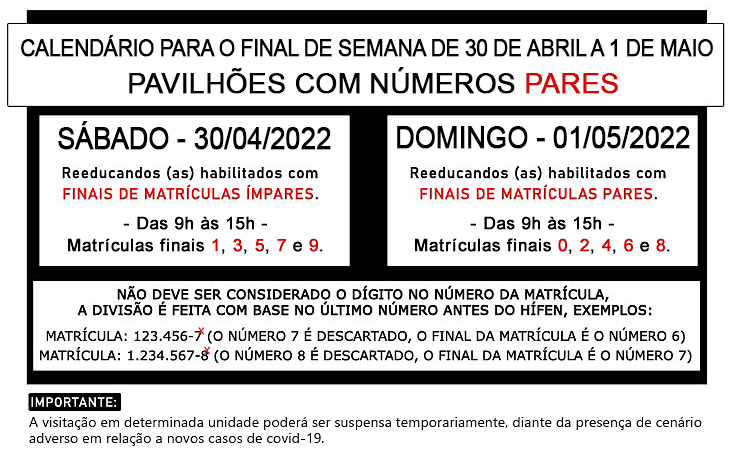
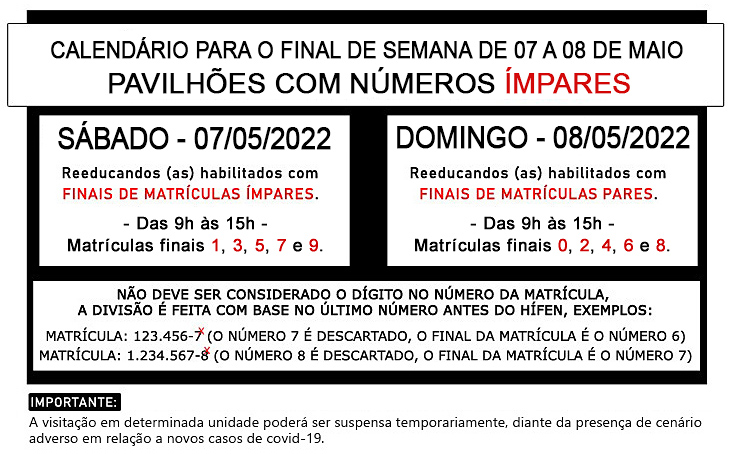
calendário 03-05

Changed region(s): [[0.0301, 0.0617, 0.9918, 0.2159], [0.2705, 0.2775, 0.3607, 0.3392], [0.7814, 0.2775, 0.8115, 0.3392]]

diff --git a/calendario.html b/calendario.html
@@ -30,7 +30,7 @@
       <section>
         <h2>Calendário de Visitação</h2>
         <img src="imagens/calendario.jpg" alt="Calendário de Visitação">
-        <p style="text-align: center;">Atualizado dia 27/04/2022</p>
+        <p style="text-align: center;">Atualizado dia 04/05/2022</p>
       </section>
     </main>
 </body>
